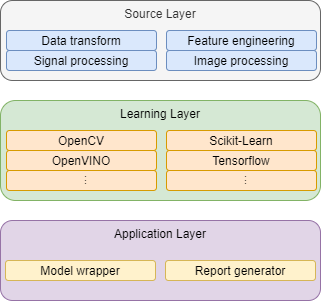
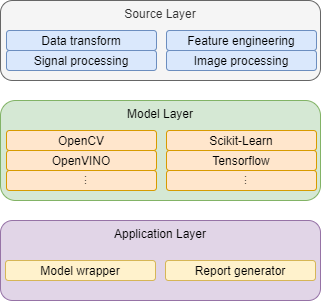
feat: rename learning layer to model layer

diff --git a/readme.md b/readme.md
@@ -42,7 +42,7 @@
 + Source Layer
 簡單的如日誌解析轉換、數據統計、訊號或影像處理，亦包括特徵工程處理如特徵篩選、數據降維等，以此處理程序將必要的數據提取並保存。
 
-+ Learning Layer
++ Model Layer
 將 Source 完成的數據交付演算法框架，並選擇框架中可運行的演算法來進行學習、驗證、測試，最終產生模型資料、驗證與測試數據。
 
 + Application Layer
